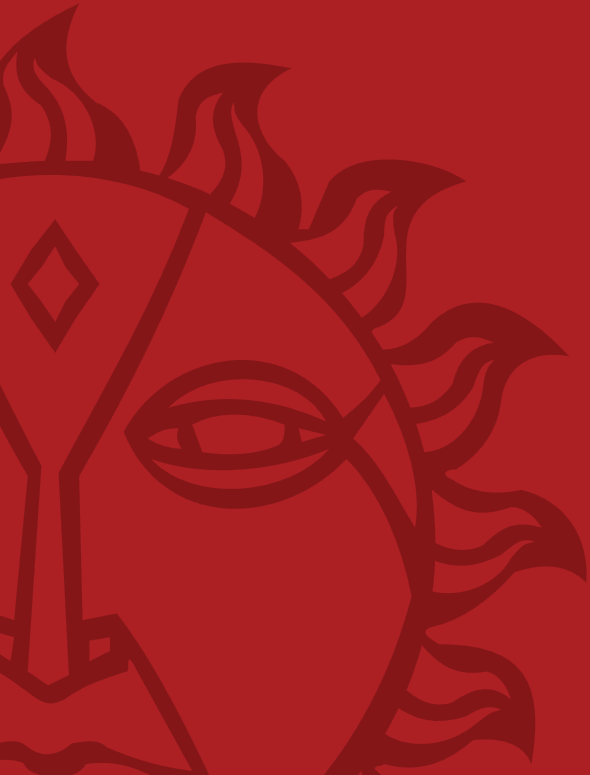
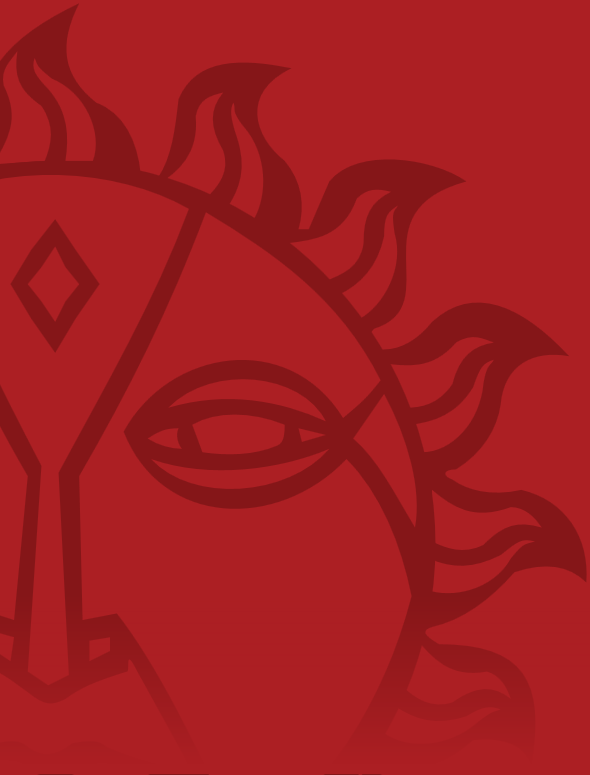
catload

Changed region(s): [[0.5492, 0.8981, 0.9153, 1.0], [0.0, 0.8981, 0.3661, 1.0]]

diff --git a/mainmenu.html b/mainmenu.html
@@ -15,8 +15,10 @@
 #bodysun {
     background-image: url(sun.png);
     background-size: cover;
+    background-repeat: no-repeat;
+    background-color: #AC1F23;
 }
-        .userdetails {
+    .userdetails {
 	background-color: #FECE7C;
 	padding: 5px;
 }
@@ -94,6 +96,9 @@ jvhbutton:focus {
     font-size: 18px;
     font-weight: 400;
 }
+            #openmenu {
+            display: none;
+            }
 
 
 </style>
@@ -192,7 +197,15 @@ function restaurantpickergonext() {
 var table = prompt("Which table (number) are you seated on?", "");
 if (table != null) {
     alert('Great, you selected table number: '+table+'. Press OK to place your order now.');
+    showmenu();
 }
+}
+function showmenu() {
+document.getElementById("blurbg").style.display = "none";
+document.getElementById("restaurantlist").style.display = "none";
+document.getElementById("openmenu").style.display = "block";
+    
+$( "#openmenucontent" ).load( "http://kushirikiana.com/njh/loadcategory.php");
 }
 
 </script>
@@ -200,6 +213,8 @@ if (table != null) {
 </head>
 
 <body onLoad="checkonload();" id="bodysun">
+    
+<div id="openmenu"><div id="openmenucontent"></div></div>
     
 <div id="ordertype" class="ordertype">
 <div class="ordertypeinside">
